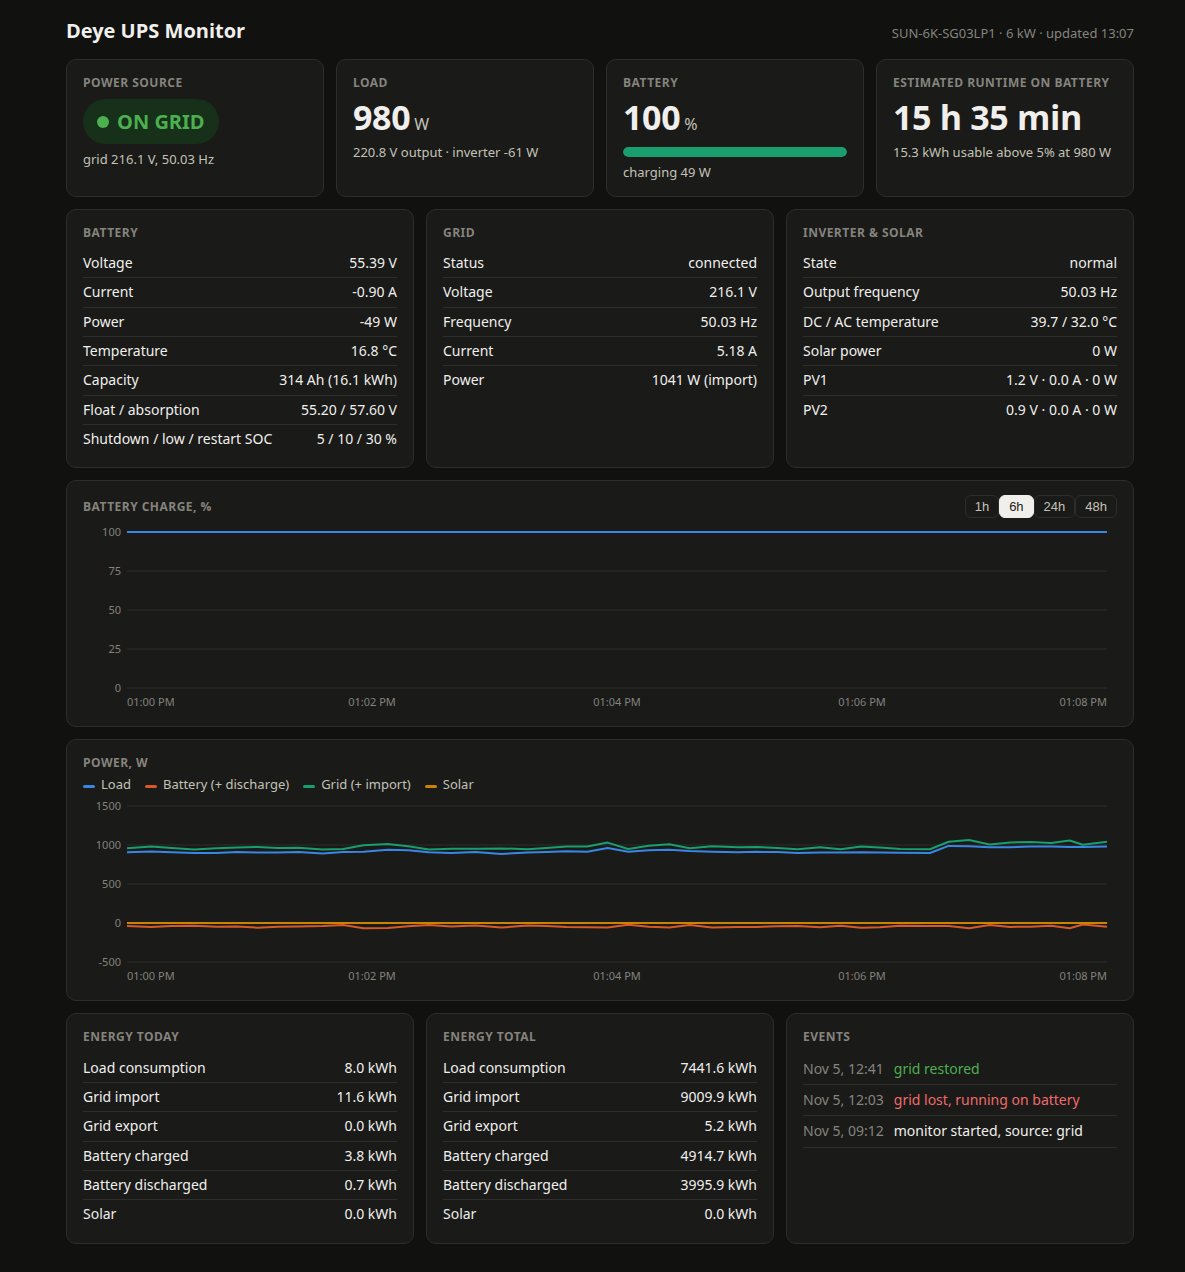
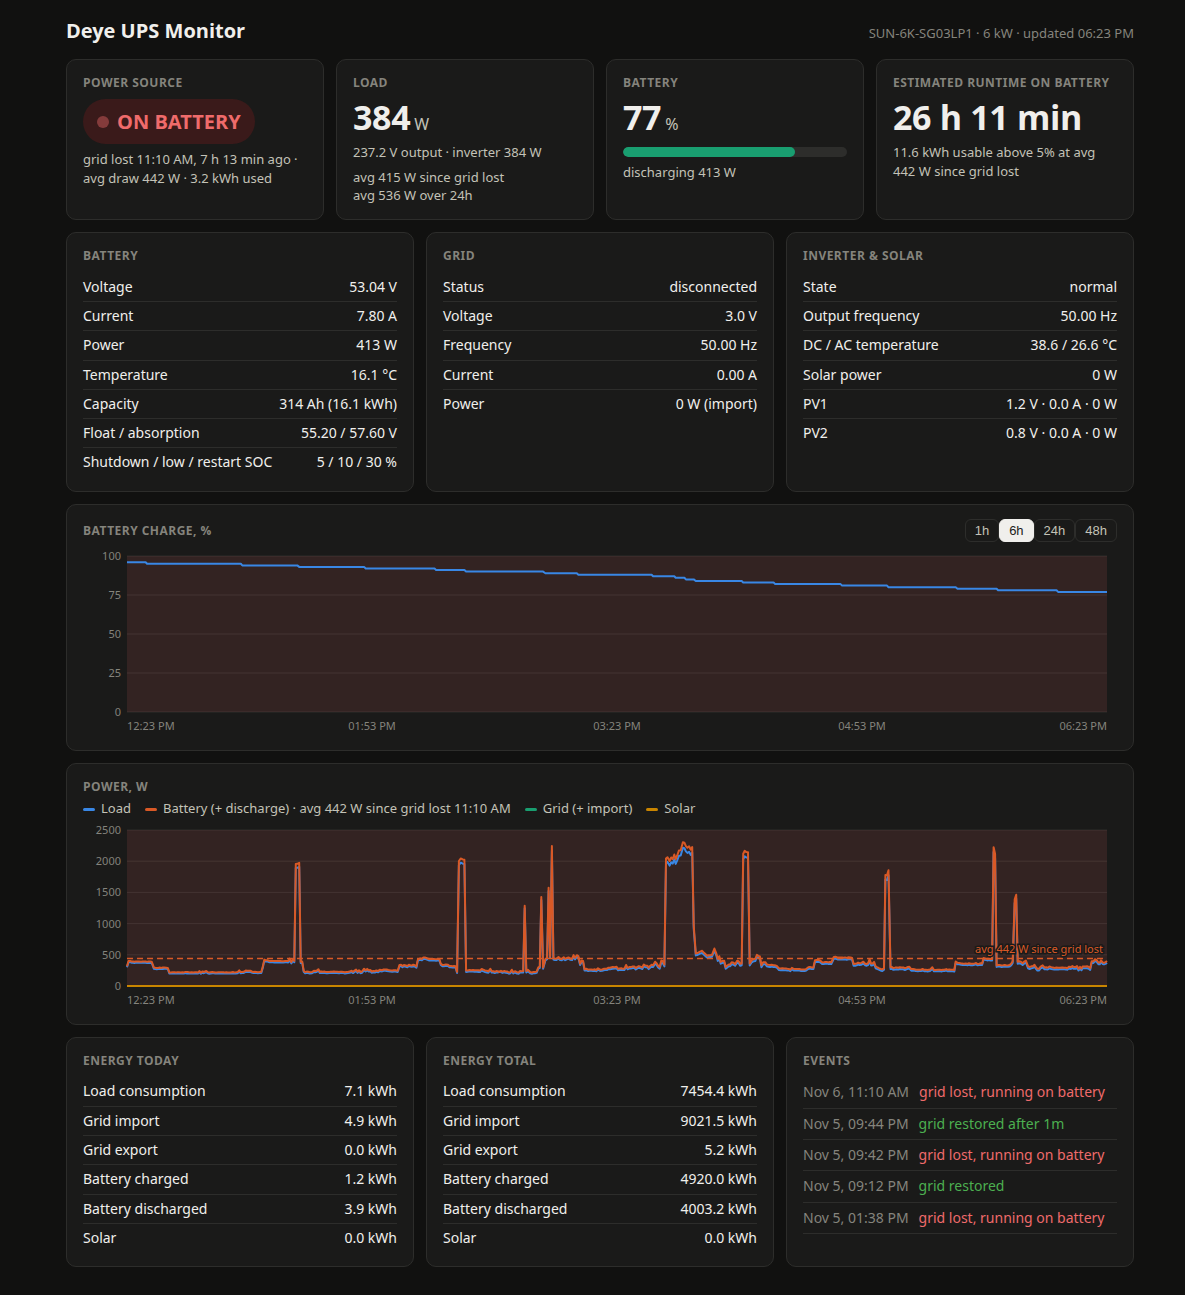
Refresh README screenshot; skip start event on quick restarts
A restart within 10 minutes of the last stored sample (deploy, reboot)
no longer logs a 'monitor started' event, so the event list only shows
real monitoring gaps and power events.

diff --git a/store.go b/store.go
@@ -77,6 +77,10 @@ func (s *Store) Update(st *Status) {
 	s.mu.Lock()
 	defer s.mu.Unlock()
 	prev := s.latest
+	var lastSample time.Time
+	if n := len(s.samples); n > 0 {
+		lastSample = time.Unix(s.samples[n-1].T, 0)
+	}
 	s.latest, s.lastErr, s.lastOK, s.dirty = st, "", st.Time, true
 	if s.failures >= failuresBeforeDown {
 		log.Printf("connection to inverter restored after %s", fmtDur(st.Time.Sub(s.downSince)))
@@ -89,7 +93,11 @@ func (s *Store) Update(st *Status) {
 	s.trimLocked()
 
 	if prev == nil {
-		s.addEventLocked(st.Time, "start", "monitor started, source: "+st.Source)
+		// A quick restart (deploy, reboot) right after the last stored sample
+		// is not worth an event; only log real monitoring gaps.
+		if lastSample.IsZero() || st.Time.Sub(lastSample) > 10*time.Minute {
+			s.addEventLocked(st.Time, "start", "monitor started, source: "+st.Source)
+		}
 		return
 	}
 	if prev.GridConnected && !st.GridConnected {
